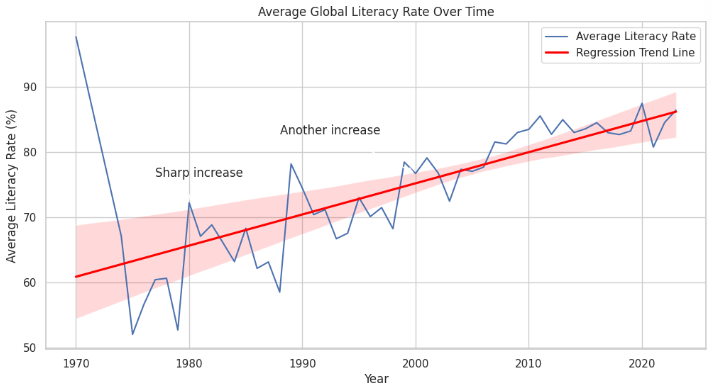
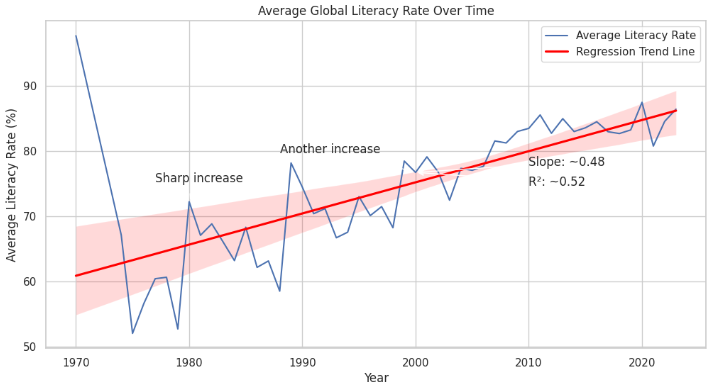
Literacy trend graph

diff --git a/README.md b/README.md
@@ -22,6 +22,18 @@ Using Python, pandas, matplotlib, seaborn, and SciPy, I investigated long-term l
 
 ---
 
+## Global Literacy Rates (1970-2023)
+
+![Global Literacy Trend](images/literacy_trend.png)
+
+The positive slope (0.48) shows that global literacy rates have generally increase over time. On average, literacy has risen by about 0.48 percentage points per year.
+
+The R² value of 0.52 suggests that time explains about half of the variation in literacy rates. This means that there is a clear upward trend overall, but it's not perfectly consistent. Other factors that may influence these results are differences between countries, gaps in data reporting, and regional inequality.
+
+Overall, the regression supports what the graph shows. Global literacy has improved over time, but progress is uneven.
+
+---
+
 ## Key Findings
 
 - Global literacy rates generally increased from 1970–2023.
@@ -30,8 +42,6 @@ Using Python, pandas, matplotlib, seaborn, and SciPy, I investigated long-term l
 - Bangladesh, Iran, and Nepal showed some of the largest literacy improvements over time.
 
 ---
-
-![Global literacy trend](images/literacy_trend.png) 
 
 ## New Technique Used
 
